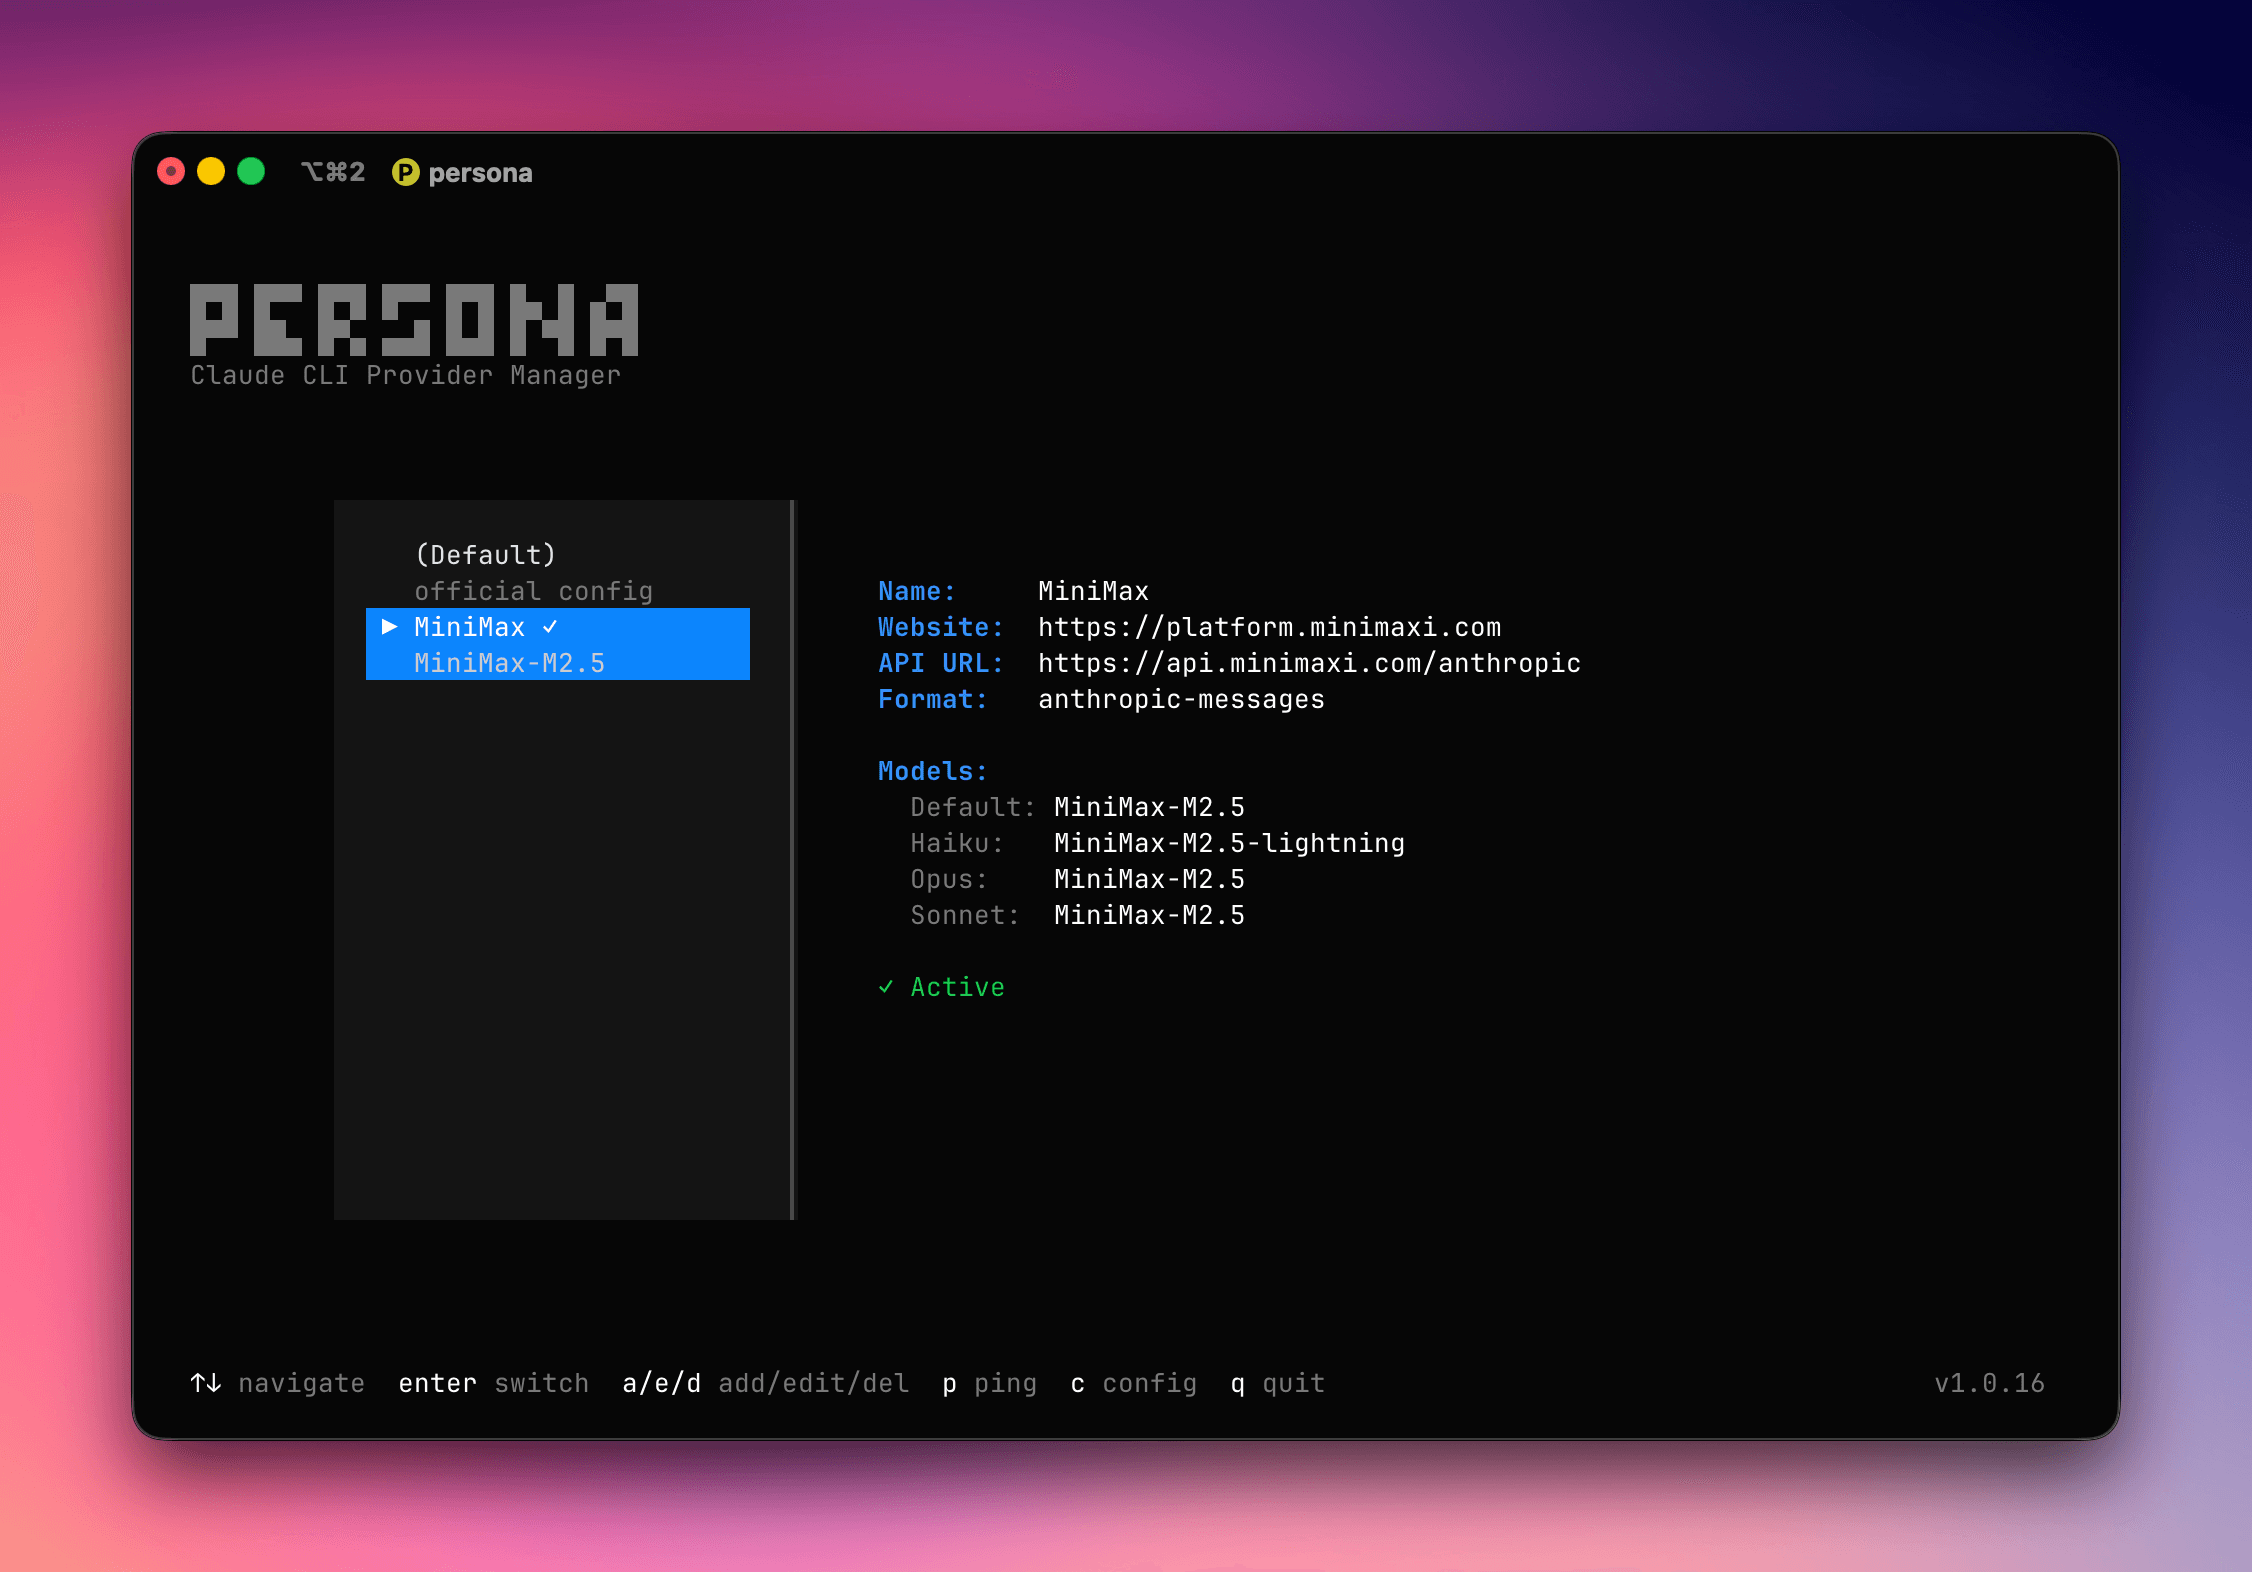
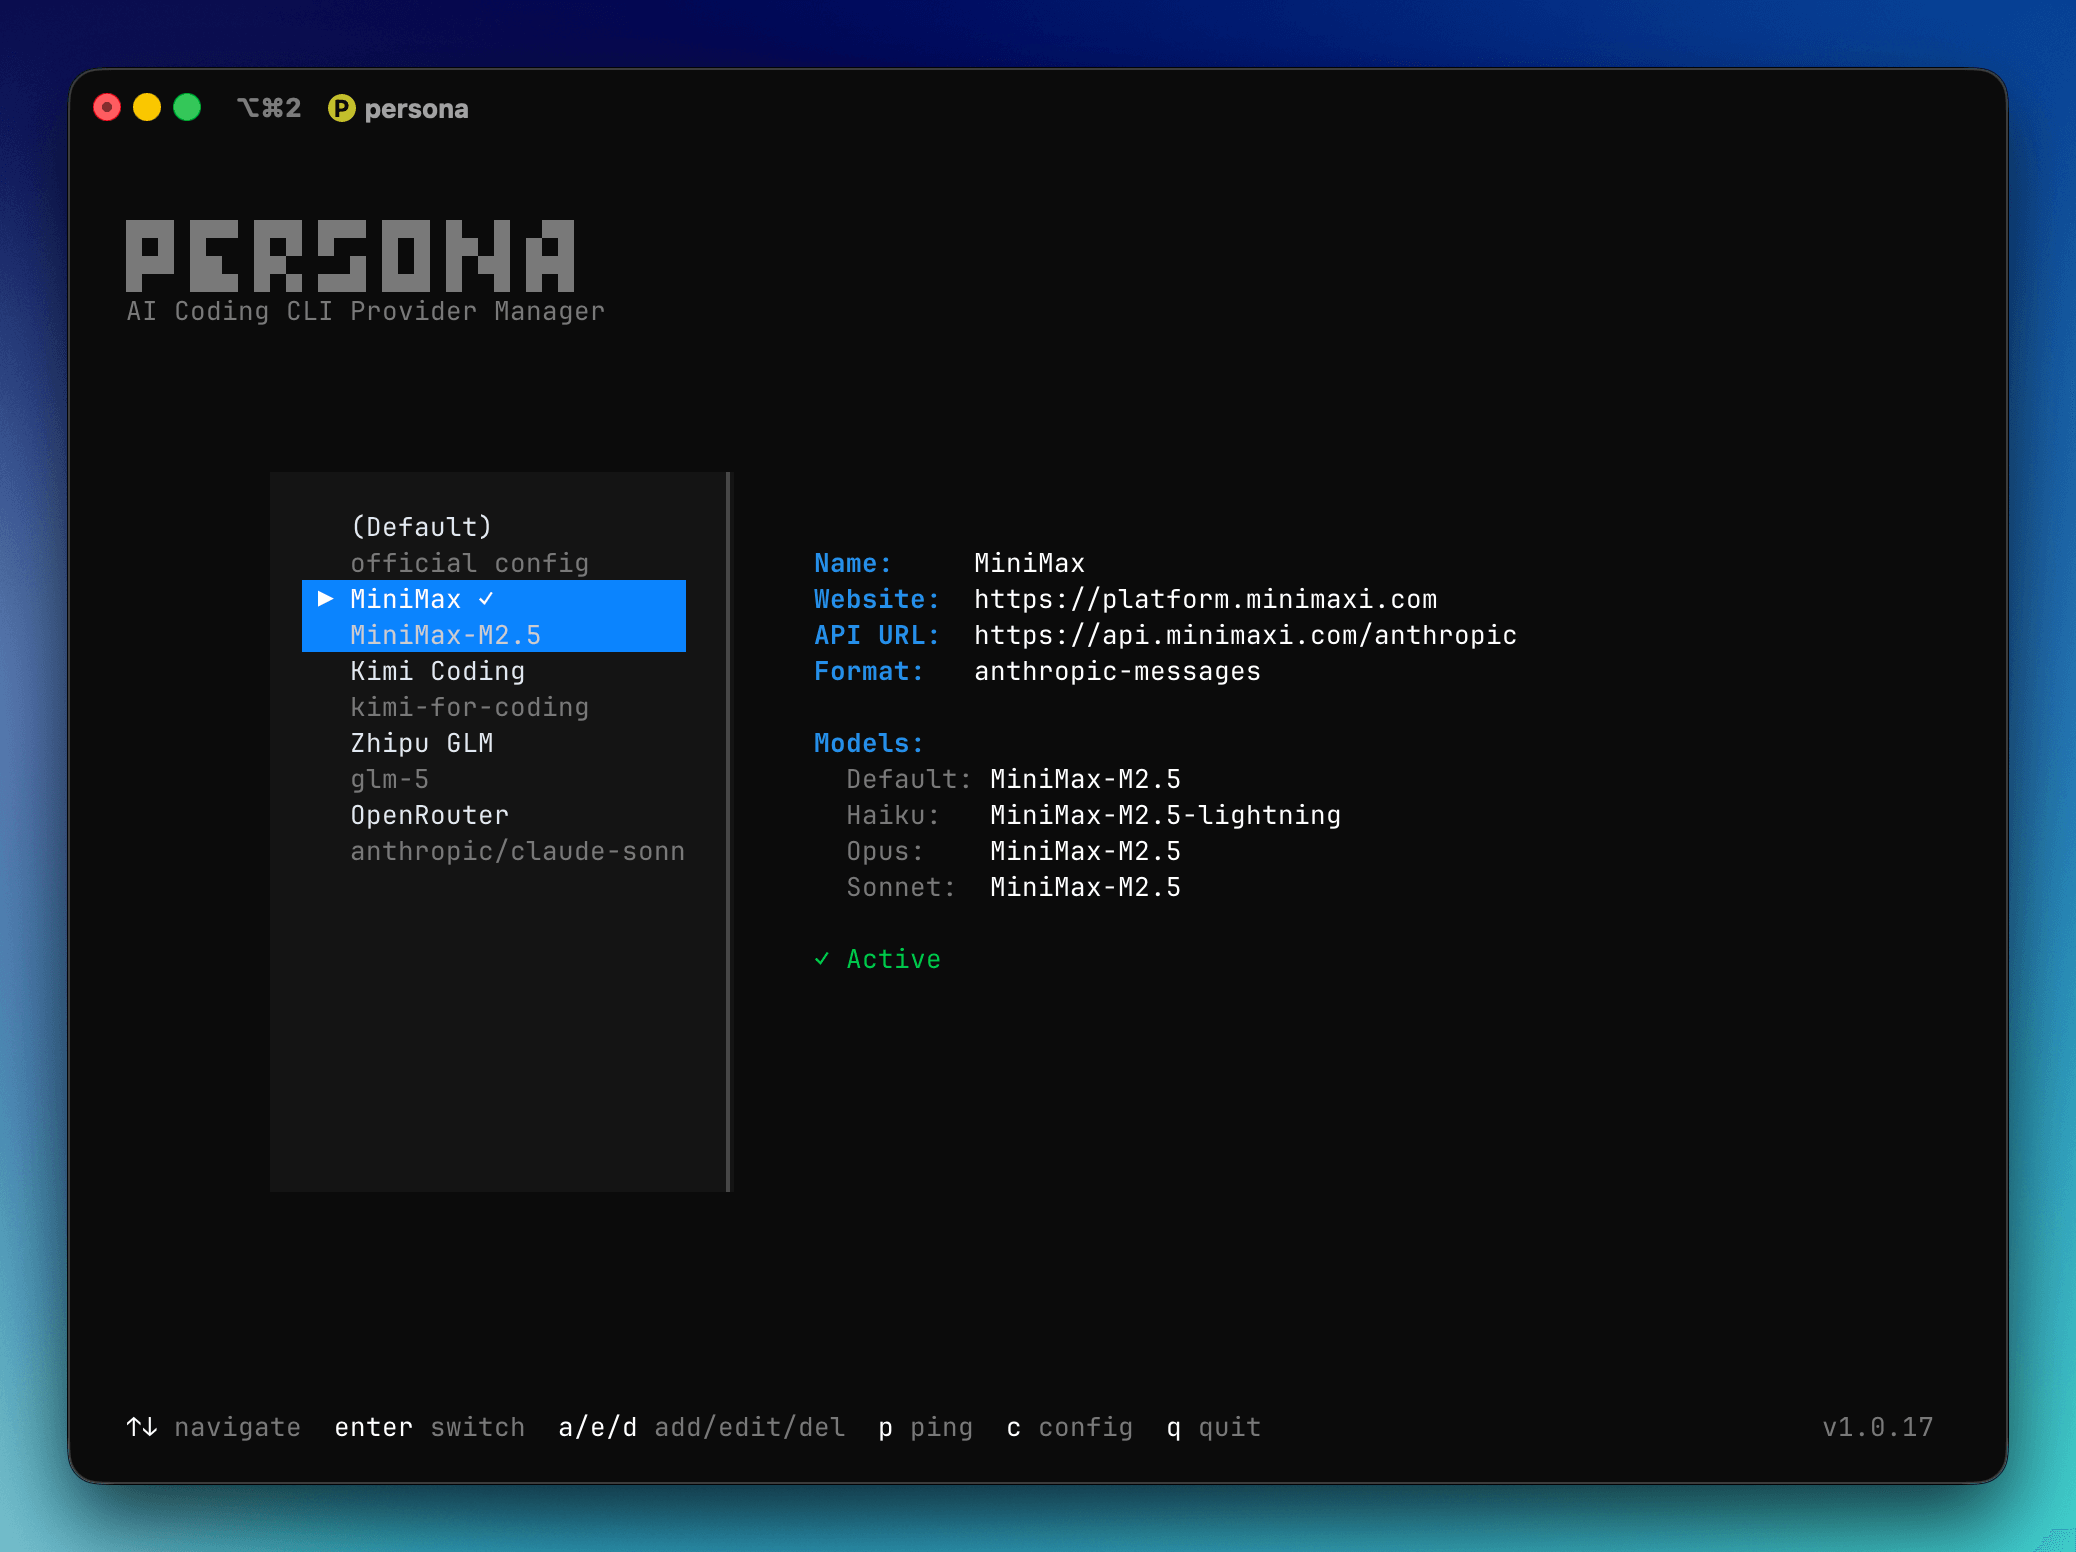
docs: add Chinese README

diff --git a/src/index.ts b/src/index.ts
@@ -18,43 +18,32 @@ import { editGeneralConfig, showGeneralConfig } from './commands/config';
 import { startInteractiveMode } from './utils/tui';
 
 const commands = {
-  list: {
-    aliases: ['ls'],
+  ls: {
     description: 'List all configured providers',
     usage: 'persona list'
   },
   use: {
-    aliases: ['switch', 'select'],
     description: 'Switch to a provider',
     usage: 'persona use <provider-id>'
   },
   add: {
-    aliases: ['create', 'new'],
     description: 'Add a new provider (interactive or with flags)',
     usage: 'persona add [--template <name>] [--name <name>] [--base-url <url>] [--api-key <key>] [--api-format <format>] [--default-model <model>] [--haiku-model <model>] [--opus-model <model>] [--sonnet-model <model>]'
   },
   edit: {
-    aliases: ['update', 'modify'],
     description: 'Edit an existing provider',
     usage: 'persona edit <provider-id> [--name <name>] [--base-url <url>] [--api-key <key>] [--api-format <format>]'
   },
   remove: {
-    aliases: ['delete', 'rm', 'del'],
+    aliases: ['rm', 'del'],
     description: 'Delete a provider',
     usage: 'persona remove <provider-id>'
   },
   ping: {
-    aliases: ['test', 'check'],
     description: 'Test provider API connection',
     usage: 'persona ping [provider-id]'
   },
-  interactive: {
-    aliases: ['i', 'tui'],
-    description: 'Start interactive TUI mode',
-    usage: 'persona interactive'
-  },
-  status: {
-    aliases: ['info', 'current'],
+  info: {
     description: 'Show current status',
     usage: 'persona status'
   },
@@ -81,7 +70,7 @@ function showHelp(command?: string): void {
     console.log(chalk.bold(`\nUsage: ${cmd.usage}\n`));
     console.log(`${cmd.description}\n`);
   } else {
-    console.log(chalk.bold('\nPersona - Claude CLI Provider Manager\n'));
+    console.log(chalk.bold('\nPersona - AI Coding CLI Provider Manager\n'));
     console.log('Usage: persona <command> [options]\n');
     console.log(chalk.bold('Commands:'));
 
@@ -96,7 +85,6 @@ function showHelp(command?: string): void {
     console.log('  persona use abc12345');
     console.log('  persona add --template openai --api-key sk-xxx');
     console.log('  persona ping');
-    console.log('  persona interactive');
     console.log();
   }
 }

diff --git a/src/version.ts b/src/version.ts
@@ -1,1 +1,1 @@
-export const VERSION = "1.0.17"
+export const VERSION = "1.0.18"

diff --git a/README.zh-CN.md b/README.zh-CN.md
@@ -1,97 +1,93 @@
 # Persona
 
-一个用于切换 Claude CLI 配置的 CLI 工具，支持在不同模型供应商之间切换。
+AI 编程 CLI Provider 管理工具
 
-## 功能特性
+## 界面
 
-- 支持 20+ 模型供应商
-- 交互式命令行引导
-- TUI 键盘交互模式
-- API 连接测试（自动端点检测）
-- 配置存储在 `~/.persona/`
-- Claude 配置写入 `~/.claude/settings.json`
+![界面](docs/screenshot.png)
 
 ## 安装
 
-```bash
-git clone https://github.com/puterjam/persona.git
-cd persona
-npm install
-npm run build
-sudo npm link
-```
+从 [GitHub Releases](https://github.com/puterjam/persona/releases) 页面下载最新版本。
+
+### 支持的平台
+
+| 平台 | 架构 | 文件名 |
+|------|------|--------|
+| macOS | ARM64 (Apple Silicon) | `persona-{version}-bun-darwin-arm64` |
+| macOS | x64 (Intel) | `persona-{version}-bun-darwin-x64` |
+| Linux | x64 | `persona-{version}-bun-linux-x64` |
+| Linux | ARM64 | `persona-{version}-bun-linux-arm64` |
+| Windows | x64 | `persona-{version}-bun-windows-x64.exe` |
+
+下载对应系统的可执行文件，在 Linux/macOS 上添加执行权限，并添加到 PATH。
 
 ## 使用方法
 
+### 交互模式
+
+启动交互式 TUI：
+
 ```bash
-# 列出所有已配置的供应商
-persona list
-
-# 切换供应商（交互模式）
-persona switch
-
-# 切换到指定供应商
-persona switch <供应商ID>
-
-# 重置为默认（Anthropic 官方）
-persona switch --reset
-
-# 添加新供应商（交互模式）
-persona add
-
-# 使用模板添加供应商
-persona add --template claude/minimax --api-key YOUR_API_KEY
-
-# 编辑供应商
-persona edit <供应商ID>
-
-# 删除供应商
-persona delete <供应商ID>
-
-# 测试 API 连接
-persona test [供应商ID]
-
-# 显示当前状态
-persona status
-
-# 列出可用模板
-persona templates
-
-# 启动交互式 TUI 模式
-persona interactive
-
-# 显示帮助
-persona help
+persona
 ```
 
-## 可用模板
+**快捷键：**
 
-### 国内官方
-- DeepSeek
-- 智谱 GLM
-- 阿里百炼
-- Kimi / Kimi for Coding
-- MiniMax
-- 字节豆包
-- 小米 MiMo
+| 按键 | 功能 |
+|------|------|
+| ↑/↓ | 浏览 provider 列表 |
+| Enter | 切换到选中的 provider |
+| a | 新增 provider |
+| e | 编辑选中的 provider |
+| d | 删除选中的 provider |
+| p | 测试 ping 选中的 provider |
+| c | 编辑通用配置 |
+| q | 退出 |
 
-### 聚合平台
-- ModelScope
-- SiliconFlow
-- OpenRouter
-- Nvidia NIM
+### 命令行模式
 
-### 国际
-- Claude 官方
-- OpenAI
-- Ollama（本地）
-- Cloudflare Workers AI
-- Groq
+#### 查看 Providers
 
-## 配置说明
+```bash
+persona list
+```
 
-- 用户配置：`~/.persona/config.json`
-- Claude 配置：`~/.claude/settings.json`
+#### 新增 Provider
+
+```bash
+persona add
+```
+
+#### 切换 Provider
+
+```bash
+persona switch <provider-id>
+```
+
+#### 测试 Provider
+
+```bash
+persona test <provider-id>
+```
+
+#### 删除 Provider
+
+```bash
+persona delete <provider-id>
+```
+
+#### 编辑配置
+
+```bash
+persona config edit
+```
+
+## 配置文件
+
+- **Provider 配置：** `~/.persona/config.json`
+- **Claude 配置：** `~/.claude/settings.json`
+- **通用配置：** `~/.persona/general.json`
 
 ## 许可证
 

diff --git a/README.md b/README.md
@@ -6,6 +6,8 @@ AI Coding CLI Provider Manager
 
 ![Interface](docs/screenshot.png)
 
+[中文文档](README.zh-CN.md) | [English Documentation](README.md) 
+
 ## Installation
 
 Download the latest release from the [GitHub Releases](https://github.com/puterjam/persona/releases) page.
@@ -50,7 +52,7 @@ persona
 #### List Providers
 
 ```bash
-persona list
+persona ls
 ```
 
 #### Add Provider
@@ -62,31 +64,30 @@ persona add
 #### Switch Provider
 
 ```bash
-persona switch <provider-id>
+persona use <provider-id>
 ```
 
 #### Test Provider
 
 ```bash
-persona test <provider-id>
+persona ping <provider-id>
 ```
 
-#### Delete Provider
+#### Remove Provider
 
 ```bash
-persona delete <provider-id>
+persona rm <provider-id>
 ```
 
 #### Edit Config
 
 ```bash
-persona config edit
+persona config
 ```
 
 ## Configuration Files
 
 - **Provider Config:** `~/.persona/config.json`
-- **Claude Settings:** `~/.claude/settings.json`
 - **General Config:** `~/.persona/general.json`
 
 ## License
